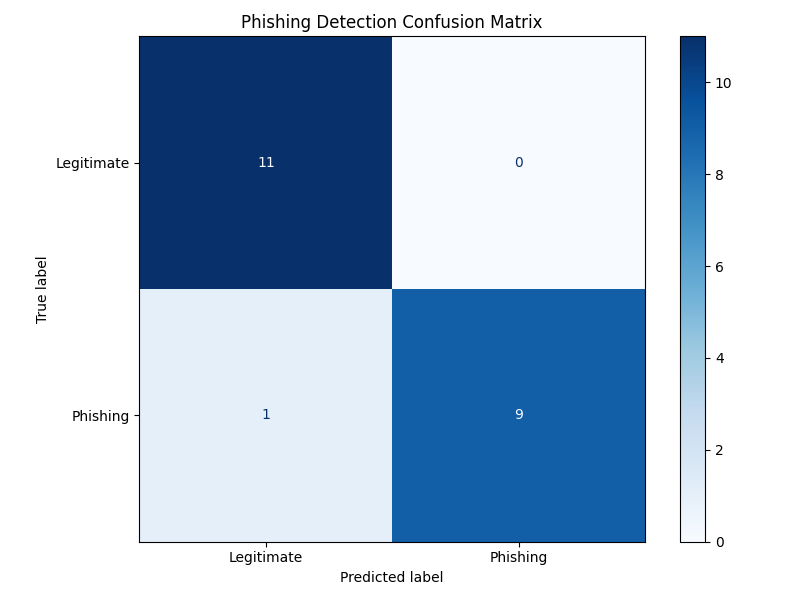
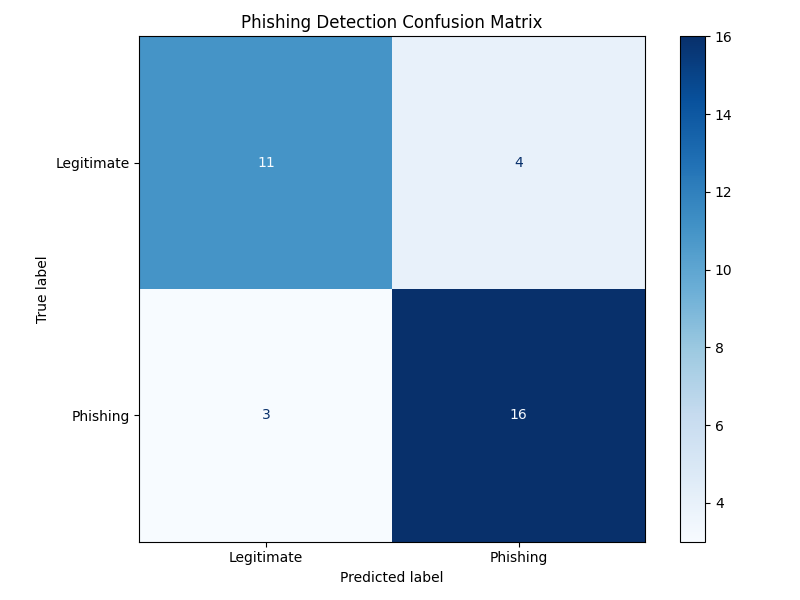
more challangeing

diff --git a/phishing-detector/phising-ml/test_inference.py b/phishing-detector/phising-ml/test_inference.py
@@ -74,43 +74,67 @@ def main():
     model = load_model()
     feature_columns = get_feature_columns(model)
     
-    # Define test URLs - a mix of legitimate and potentially phishing sites
-    # Note: All URLs should be valid at the time of script execution
+    # Define challenging legitimate URLs
+    # These URLs have characteristics that might trigger false positives
     legitimate_urls = [
-        "https://www.google.com",
-        "https://www.apple.com",
-        "https://www.microsoft.com",
-        "https://www.amazon.com",
-        "https://github.com",
-        "https://www.nytimes.com",
-        "https://www.cnn.com",
-        "https://stackoverflow.com",
-        "https://www.wikipedia.org",
-        "https://www.wikipedia.org",
-        "https://www.reddit.com"
+        "https://login.microsoftonline.com/common/oauth2/authorize?client_id=29d9ed98-a469-4536-ade2-f981bc1d605e",  # Long URL with parameters
+        "https://accounts.google.com/o/oauth2/auth/identifier?client_id=717762328687-iludtf96g1hinl76e4lc1b9a82g457nn.apps.googleusercontent.com",  # Long auth URL
+        "https://secure2.store.apple.com/shop/signIn/orders?r=SCDHYHP7CY4H9KXEX",  # Secure subdomain with number
+        "https://github.com/login?return_to=%2Fjoin%3Fsource%3Dheader-home",  # URL with encoded parameters
+        "https://www.amazon.com/ap/signin?openid.pape.max_auth_age=0&openid.return_to=https%3A%2F%2Fwww.amazon.com",  # Complex auth URL
+        "https://www.paypal.com/signin?returnUri=https%3A%2F%2Fwww.paypal.com%2Fmyaccount%2Ftransfer",  # Auth URL with returnUri
+        "https://www.bankofamerica.com/online-banking/sign-in/",  # Banking URL with dashes
+        "https://account.t-mobile.com/oauth2/v1/auth/login-password",  # Mobile provider with version in URL
+        "https://appleid.apple.com/auth/oauth2/authorize?client_id=com.apple.gs.xcode.auth",  # Apple ID auth URL
+        "https://login.yahoo.com/?.src=ym&.intl=us&.lang=en-US&.done=https%3A%2F%2Fmail.yahoo.com"  # Yahoo login with multiple parameters
     ]
     
-    # These are example URLs that have characteristics common in phishing sites
-    # Note: Some of these are constructed examples and may not be actual phishing sites
+    # Challenging phishing URLs - these are more sophisticated examples
+    # These are constructed examples and should not be real phishing sites
     suspicious_urls = [
-        "http://192.168.1.1/login.php",  # IP instead of domain
-        "http://bit.ly/3xR5tY",  # URL shortener
-        "https://secure-banking.com-user-session.info",  # Domain spoofing
-        "http://paypal.com@secure-account-login.com",  # @ symbol in URL
-        "https://banking.secure.com//redirect",  # Double slash redirect
-        "https://secure-bank-verification-center.com",  # Long URL with dashes
-        "https://login.secure.banking.com.verify.net",  # Multiple subdomains
-        "https://banking-secure-https.com",  # HTTPS in domain name
-        "http://0x58.0xCC.0xCA.0x62/secure",  # Hexadecimal IP
-        "http://secure.bank.com.phishing.xyz/login"  # Multi-level domain
+        "https://login-microsoft365.com/signin",  # Convincing domain with dash
+        "https://accounts-google.com/signin/v2/challenge/pwd",  # Convincing domain with legitimate-looking path
+        "https://appleid-verify.com/manage/overview",  # Brand + action word domain
+        "https://www.paypaI.com/us/signin",  # Homograph attack (capital I instead of l)
+        "https://amazonprime.delivery/tracking/order",  # Brand + related word domain
+        "https://secure-bankofamerica.com/login.php",  # Secure prefix with brand
+        "https://www.dropbox.security-check.com/verify",  # Subdomain using brand name
+        "https://netflix-account-services.com/renew-membership",  # Service-related domain
+        "https://online.banking-wells-fargo.com/auth",  # Legitimate-looking banking URL
+        "https://www.linkedin.com.profile-view.xyz/",  # Path after TLD
+        "https://facebook-login-secure.herokuapp.com/",  # Popular hosting service
+        "https://instagram-verify.onrender.com/confirm-identity",  # Cloud platform with brand
+        "https://confirm-chase-account.vercel.app/",  # Modern hosting platform
+        "https://www.docusign.com.document-verify.site/signing"  # Brand with action words
     ]
+    
+    # For advanced testing - URLs with mixed signals
+    edge_case_urls = [
+        # Legitimate but suspicious-looking URLs
+        "https://sandbox.paypal.com/webapps/auth/login",  # Testing subdomain of legitimate site
+        "https://test-payment.adyen.com/hpp/pay.shtml",  # Payment processor test environment
+        "https://demo.stripe.com/v3/elements?login=true",  # Payment demo site
+        "https://developer-account.intel.com/dashboard/2FA",  # Developer portal with number
+        "https://login.salesforce.com/secur/forgotpassword.jsp",  # Enterprise login with JSP
+        
+        # Phishing but with sophisticated techniques
+        "https://review-account-security.com/microsoft/sso",  # Generic domain with brand in path
+        "https://credential-verification.com/google/signin",  # Generic domain with recognizable path
+        "https://drive-google.share-document.com/view",  # Convincing domain combination
+        "https://secure.banking-updates.com/chase/login",  # Security words with brand in path
+        "https://mail.google.com.mailbox-verify.site/signin"  # Full domain prefix of legitimate site
+    ]
+    
+    # Combine edge cases with main test sets for comprehensive testing
+    legitimate_urls.extend([url for url in edge_case_urls[:5]])  # First 5 are legitimate
+    suspicious_urls.extend([url for url in edge_case_urls[5:]])  # Rest are phishing
     
     results = []
     true_labels = []
     predicted_labels = []
     
     # Test legitimate URLs
-    print("\nTesting legitimate URLs...")
+    print("\nTesting challenging legitimate URLs...")
     for url in legitimate_urls:
         try:
             start_time = time.time()
@@ -134,7 +158,7 @@ def main():
             print(f"✗ Error with {url}: {e}")
     
     # Test suspicious URLs
-    print("\nTesting suspicious URLs...")
+    print("\nTesting sophisticated phishing URLs...")
     for url in suspicious_urls:
         try:
             start_time = time.time()
